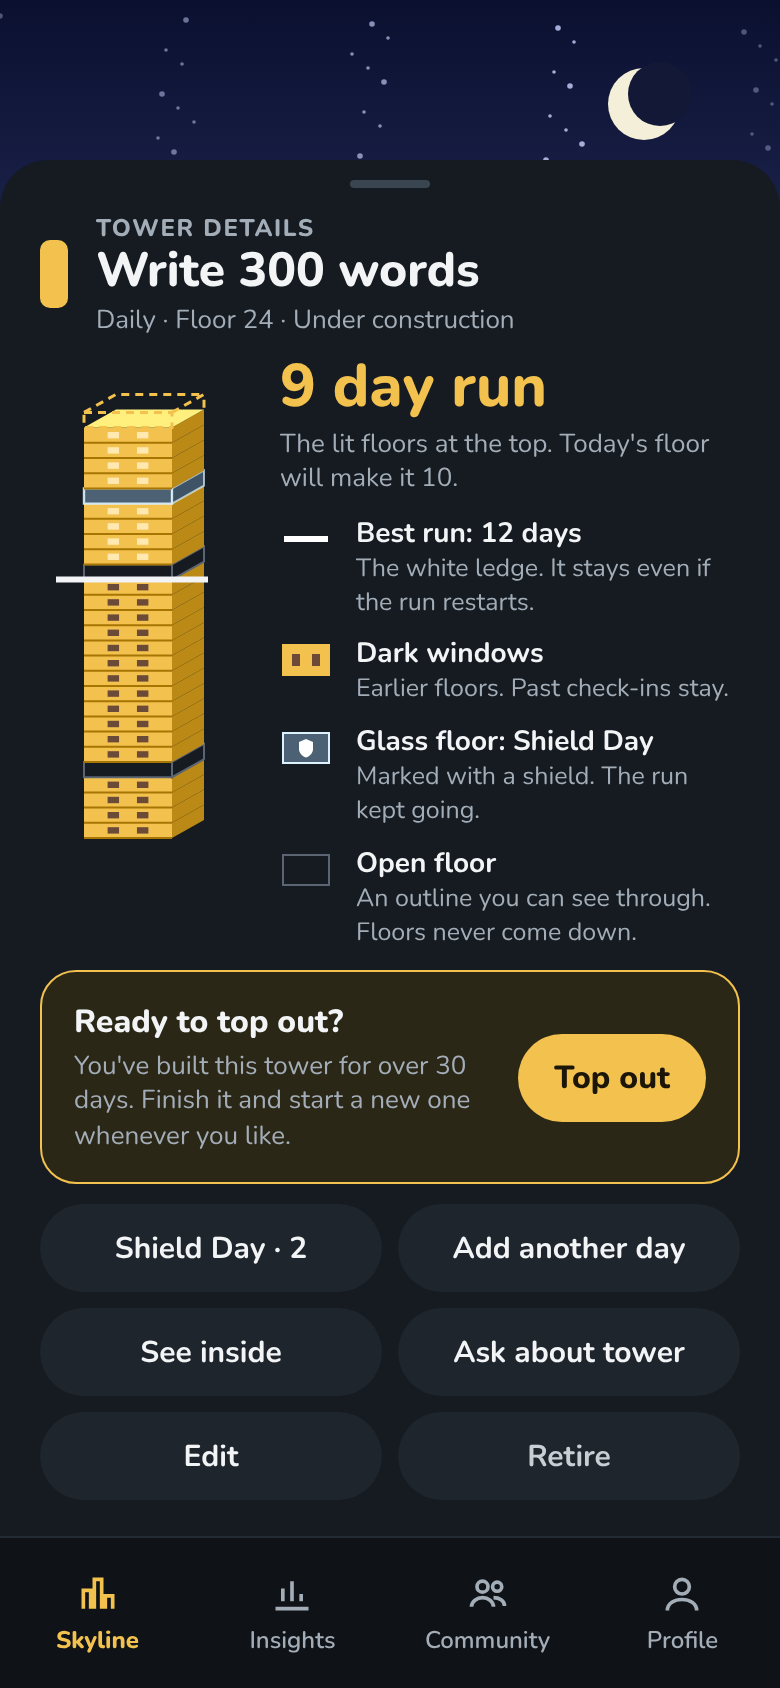
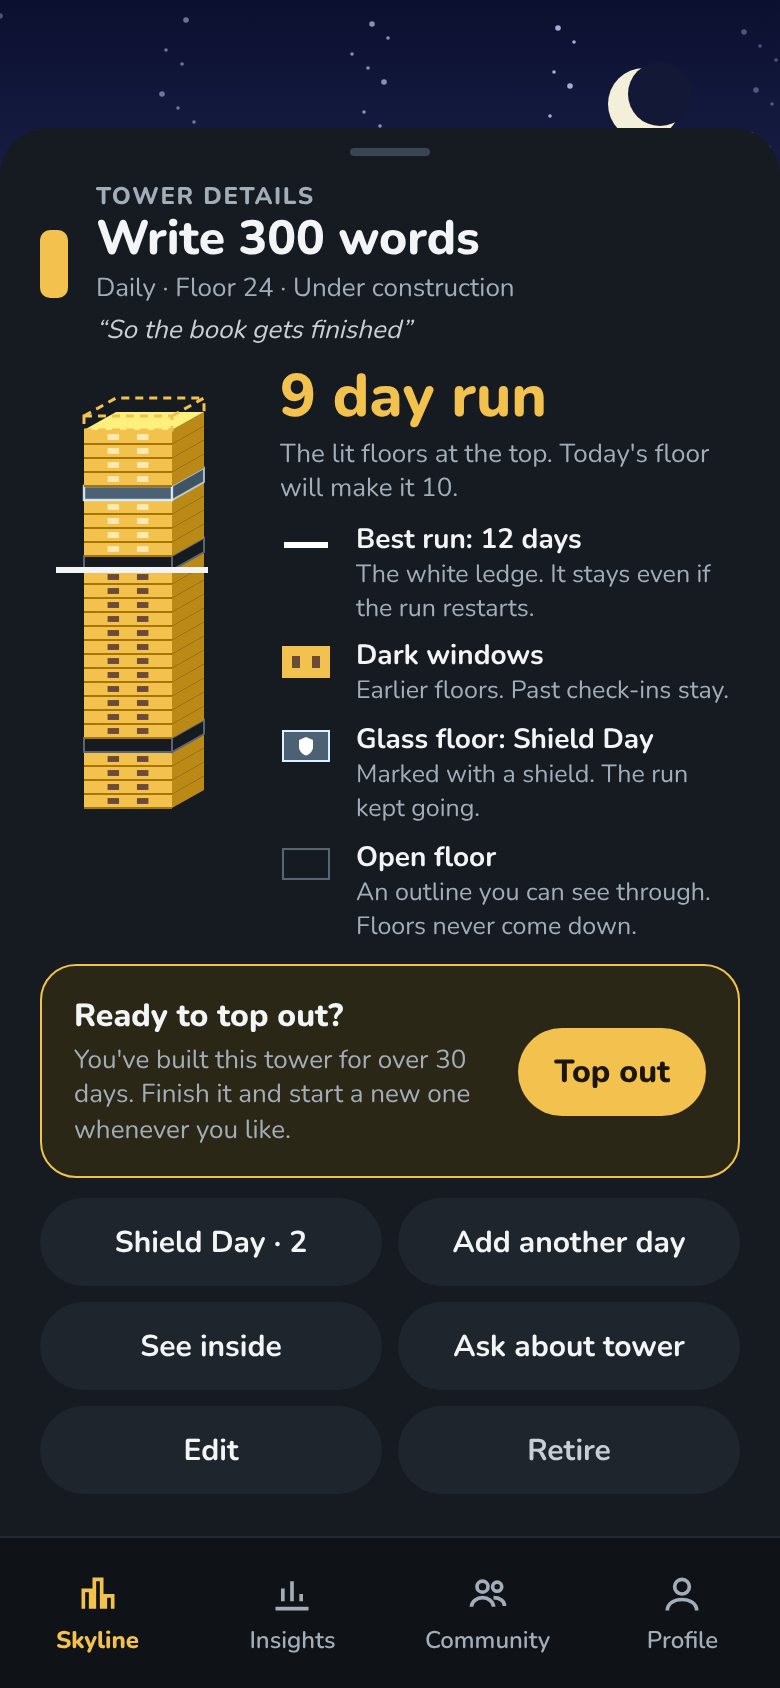
Design: boards 03/07/22 approved; motivation line and long-name rule
Claude-Session: https://claude.ai/code/session_01UvWD32uMFJU1E2B9jDYiLg

diff --git a/design/skyline/source/screens.html b/design/skyline/source/screens.html
@@ -11,7 +11,7 @@ body{width:390px;height:844px;background:var(--bg);color:var(--text);font-family
 .tab svg{width:22px;height:22px}
 h1{font-weight:800}
 .btn{background:var(--s2);border-radius:22px;height:44px;display:flex;align-items:center;justify-content:center;font-weight:700;font-size:15px}
-.legend{display:flex;gap:12px;align-items:flex-start;margin-top:8px}
+.legend{display:flex;gap:12px;align-items:flex-start;margin-top:6px}
 .legend b{display:block;font-size:14px;font-weight:700}
 .legend span{display:block;font-size:12.5px;color:var(--muted);line-height:1.35}
 .sw{flex:0 0 26px;height:26px;display:flex;align-items:center;justify-content:center}
@@ -75,15 +75,15 @@ if(screen==='towersheet'){
   document.getElementById('root').innerHTML=`
   <svg width="390" height="110" style="position:absolute;top:0;left:0"><defs><linearGradient id="g" x1="0" y1="0" x2="0" y2="1"><stop offset="0" stop-color="#0B1030"/><stop offset="1" stop-color="#1A2148"/></linearGradient></defs>
   <rect width="390" height="110" fill="url(#g)"/>${stars}<circle cx="322" cy="52" r="18" fill="#F4EFD8"/><circle cx="330" cy="47" r="16" fill="#121836"/></svg>
-  <div style="position:absolute;top:80px;left:0;right:0;bottom:76px;background:var(--s1);border-radius:24px 24px 0 0;padding:0 20px">
+  <div style="position:absolute;top:64px;left:0;right:0;bottom:76px;background:var(--s1);border-radius:24px 24px 0 0;padding:0 20px">
     <div style="width:40px;height:4px;border-radius:2px;background:#3A4552;margin:10px auto 12px"></div>
     <div style="display:flex;gap:14px;align-items:center">
       <div style="width:14px;height:34px;border-radius:5px;background:${C.front}"></div>
       <div><div style="color:var(--muted);font-size:12px;font-weight:800;letter-spacing:.8px">TOWER DETAILS</div><h1 style="font-size:24px;line-height:1.15">Write 300 words</h1>
-      <div style="color:var(--muted);font-size:13px;margin-top:1px">Daily · Floor 24 · Under construction</div></div>
+      <div style="color:var(--muted);font-size:13px;margin-top:1px">Daily · Floor 24 · Under construction</div><div style="color:#C9CED4;font-size:13px;font-style:italic;margin-top:3px">“So the book gets finished”</div></div>
     </div>
     <div style="display:flex;gap:16px;margin-top:8px">
-      <svg width="104" height="246" style="flex:0 0 104px">${tower({x:22,base:242,w:44,fh:7.6,dx:16,dy:9,floors,windows:2,ledgeAfter:17})}</svg>
+      <svg width="104" height="226" style="flex:0 0 104px">${tower({x:22,base:222,w:44,fh:7,dx:16,dy:9,floors,windows:2,ledgeAfter:17})}</svg>
       <div style="flex:1">
         <div style="font-size:30px;font-weight:800;color:var(--amber);line-height:1.1">9 day run</div>
         <div style="color:var(--muted);font-size:13px;margin-top:4px;line-height:1.35">The lit floors at the top. Today's floor will make it 10.</div>

diff --git a/design/skyline/README.md b/design/skyline/README.md
@@ -11,11 +11,11 @@ This is the only folder of Skyline mockups. The old `concept _screens/` folder w
 |---|---|---|---|---|
 | 01 | `01-skyline.png` | Skyline home, Daily view | 2 | current (was `concept _screens/1-skyline-daily.png`) |
 | 02 | `02-hold.png` | Hold to build | 2 | interaction only (glass Shield Day on Run, past floors drawn without windows) |
-| 03 | `03-towersheet.png` | Tower sheet | 3 | current floor art (see-through open floor, glass + shield Shield Day). The title names the page ("TOWER DETAILS") above the habit name, per the owner. The owner chose a 2-column grid over stacked rows on 2026-11-13. This board's layout is **waiting for final approval**: a Top out card shown only when the tower is eligible, then 3 rows of 2 (Shield Day · count, Add another day, See inside, Ask about tower, Edit, Retire). |
+| 03 | `03-towersheet.png` | Tower details | 3 | **current, approved by the owner 2026-11-13.** See-through open floor, glass + shield Shield Day. The eyebrow "TOWER DETAILS" names the page; the habit name is the title (always present, since a name is required); the optional "Why does this matter?" text shows as a muted italic line only when set. A Top out card appears only when the tower is eligible, then a 2-column grid of 6 buttons (Shield Day · count, Add another day, See inside, Ask about tower, Edit, Retire). |
 | 04 | `04-topout.png` | Top out confirm | 3 | interaction only (past floors drawn without windows) |
 | 05 | `05-skystates.png` | Sky and weather | 2 | interaction only (not re-checked tower by tower; assume old floor art) |
 | 06 | `06-insights.png` | Insights | 5 | **current on the developer's branch** (commit bf0e51c; the old board is in `superseded/06-insights-v1.png`). Until that's pushed, the file on this branch is still the old board. v2 has three cards. **Floors built** (daily towers only): "N so far this week/month" with "Last week/month at this point: N", a stacked bar chart per habit with a legend, and tabs 8 weeks / 6 months / Year (Year = 12 monthly bars). **Runs**: every habit, a "Best" badge on the longest current run, a bar filled to current/best with a white tick at best. **Shield use**: two tiles (Shield Days used, habits that used one) over 12 weeks, then a dot timeline per habit. Owner decisions: no Daily tab, the "Selected habits" breakdown stays, Compare is out of Phase 5, Goals was removed. |
-| 07 | `07-crosssection.png` | Inside view | 3 | current (redrawn 2026-11-13: see-through open floor, glass + shield Shield Day). The title is "Inside view" with the habit name under it; back goes to Tower details. |
+| 07 | `07-crosssection.png` | Inside view | 3 | **current, approved 2026-11-13** (redrawn 2026-11-13: see-through open floor, glass + shield Shield Day). The title is "Inside view" with the habit name under it; back goes to Tower details. |
 | 08 | `08-community.png` | Community, shared habits | 6 | interaction only (not re-checked tower by tower) |
 | 09 | `09-challenges.png` | Community, challenges | 6 | interaction only (not re-checked tower by tower) |
 | 10 | `10-sharedhabit.png` | Shared habit (skybridge) | 6 | interaction only (past floors drawn without windows) |
@@ -30,7 +30,7 @@ This is the only folder of Skyline mockups. The old `concept _screens/` folder w
 | 19 | `19-lot-sheet-monthly.png` | Lot sheet, monthly | 2b | current (was `5-lot-sheet-monthly.png`) |
 | 20 | `20-top-out-result.png` | Top out result | 3 | current (was `6-top-out-result.png`) |
 | 21 | `21-topout-fade-reference.png` | Topped-out tower fades behind the new one (~40%) | 3 | reference (was `topped_out_tower_fades_behind_new_tower.png`) |
-| 22 | `22-floor-states-reference.png` | Floor states: lit, solid Shield block, open, dark | all | **reference: the source of truth for floor art.** Redrawn 2026-11-13 with a see-through open floor and a glass + shield Shield Day (owner decisions); the old version is in `superseded/`. |
+| 22 | `22-floor-states-reference.png` | Floor states: lit, solid Shield block, open, dark | all | **reference: the source of truth for floor art.** Approved and redrawn 2026-11-13 with a see-through open floor and a glass + shield Shield Day (owner decisions); the old version is in `superseded/`. |
 
 `superseded/` keeps the old versions of 01, 03, 07 and 22 for history. Don't build from them.
 
@@ -43,6 +43,10 @@ This is the only folder of Skyline mockups. The old `concept _screens/` folder w
 | Open day | see-through: an `openStroke` outline only, so the sky shows through (owner decision 2026-11-13, matching the build). Never filled dark, never a crack or "missed" label. |
 | Today, not yet built | dashed amber outline on top |
 | Best run | white ledge |
+
+## Text rules (owner, 2026-11-13)
+- Tower names (up to 200 characters) wrap to 2 lines, then end in …; the screen-reader label reads the full name. This applies to the Tower details and Inside view titles.
+- "Why does this matter?" (`motivation`) shows on Tower details only when set. Nothing is shown when it's empty.
 
 ## Not drawn yet
 - Friend skyline (Phase 6)
